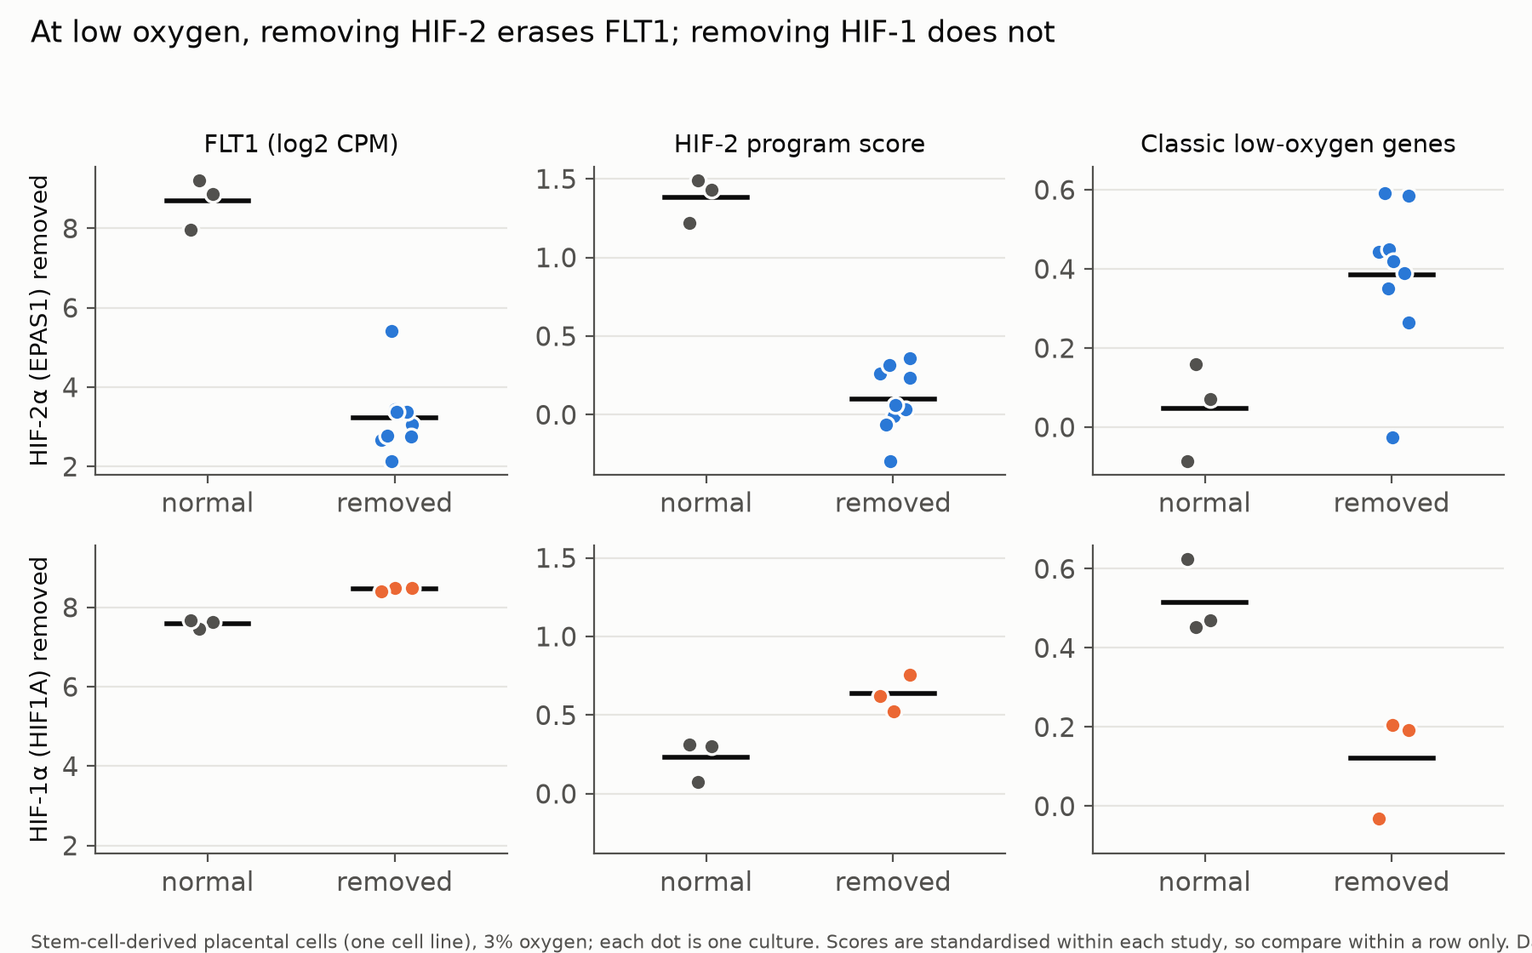
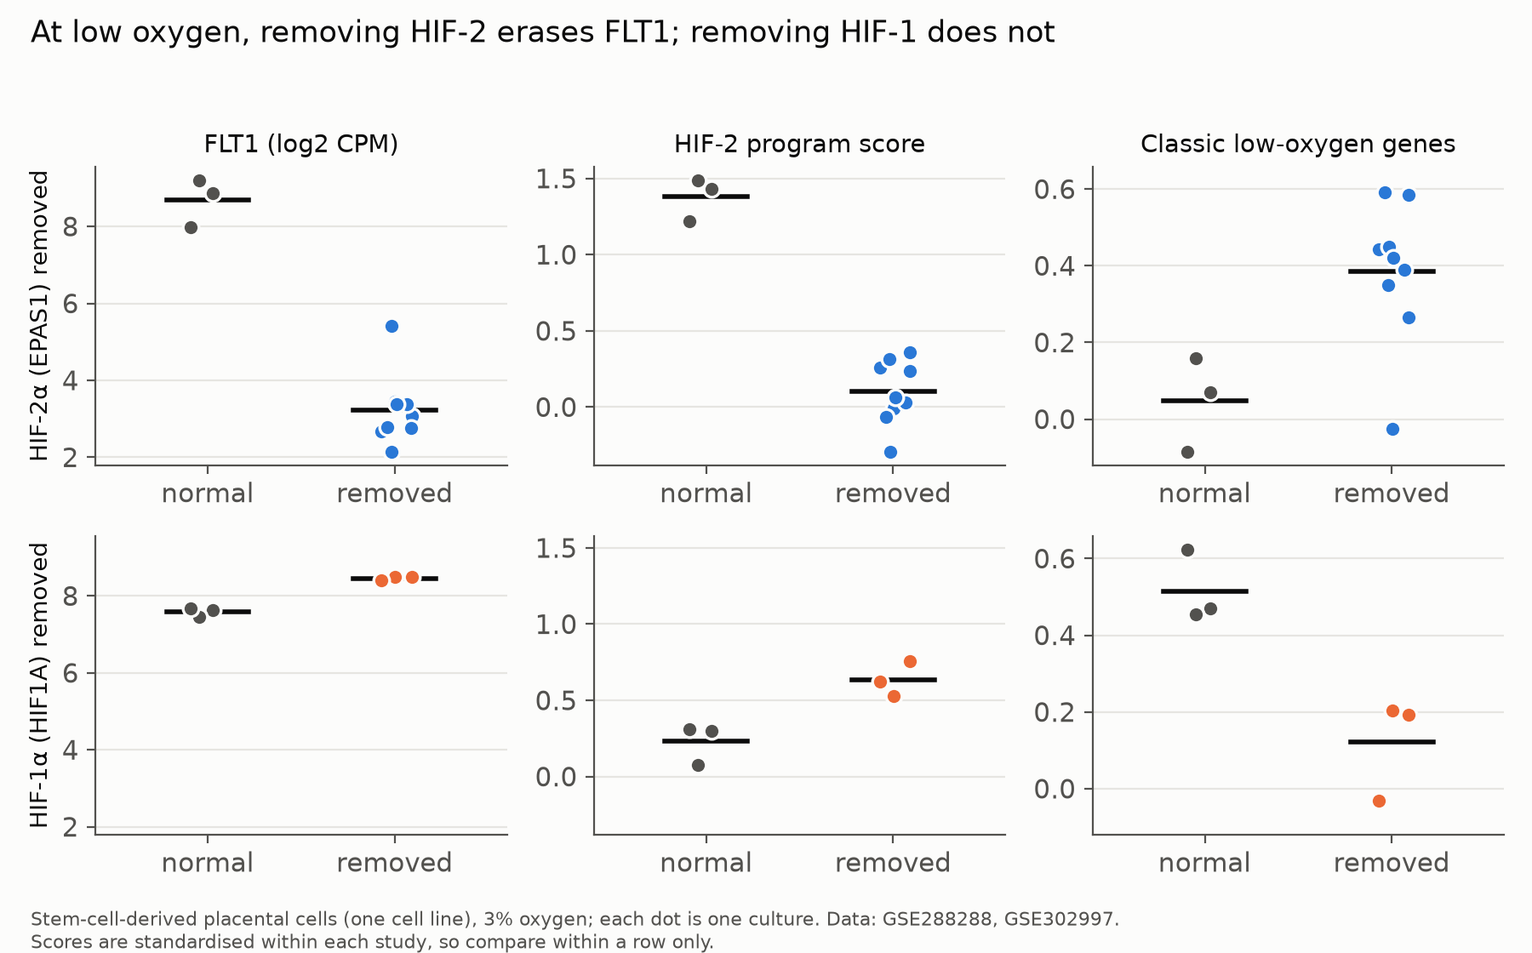
Second review: six testable questions defined in the intro and matched by fig20 (FLT1 RNA, not sFlt-1 protein); generic hypoxia score vs HIF-2 program kept separate in the conclusions; negatives phrased as 'no association found'; card no longer claims PE-specificity 'refuted' (no difference is not e

diff --git a/artifacts/summary-figures/make_figures.py b/artifacts/summary-figures/make_figures.py
@@ -94,28 +94,28 @@ for i, panel in enumerate(["HIF-2α (EPAS1) removed", "HIF-1α (HIF1A) removed"]
         if j == 0: ax.set_ylabel(panel, fontsize=10, color=INK)
         ax.grid(axis="y", color=GRID, lw=0.8); ax.set_axisbelow(True)
 fig.suptitle("At low oxygen, removing HIF-2 erases FLT1; removing HIF-1 does not", x=0.02, ha="left", fontsize=12.5, color=INK)
-fig.text(0.02, 0.005, "Stem-cell-derived placental cells (one cell line), 3% oxygen; each dot is one culture. Scores are standardised within each study, so compare within a row only. Data: GSE288288, GSE302997.", fontsize=8, color=MUTED)
-fig.tight_layout(rect=(0, 0.03, 1, 0.95)); fig.savefig(FIG / "fig19_hif2_vs_hif1.png", dpi=200); plt.close(fig)
+fig.text(0.02, 0.005, "Stem-cell-derived placental cells (one cell line), 3% oxygen; each dot is one culture. Data: GSE288288, GSE302997.\nScores are standardised within each study, so compare within a row only.", fontsize=8, color=MUTED)
+fig.tight_layout(rect=(0, 0.05, 1, 0.95)); fig.savefig(FIG / "fig19_hif2_vs_hif1.png", dpi=200); plt.close(fig)
 
 # ---- fig20: the chain, link by link
-links = [("1", "Poor maternal blood supply → low-oxygen program", "Not supported (2 pathology cohorts, Doppler)", "no"),
-         ("2", "Program higher in early preeclampsia", "Supported, fragile (5 of 6 matched cohorts)", "part"),
-         ("3", "HIF → program", "Supported in cells: drug, knockdown, DNA binding, knockout", "yes"),
-         ("4", "HIF-2 (not HIF-1) → FLT1", "Supported in stem-cell model; confirms Sasagawa 2018", "yes"),
-         ("5", "Program ↔ FLT1 in placentas", "Supported: 10/10 cohorts, within cells, intact tissue", "yes"),
-         ("6", "Placental FLT1 → mother's disease", "Not supported in our data; literature only", "no")]
-fig, ax = plt.subplots(figsize=(11, 4.6)); ax.axis("off")
+links = [("1", "Alarm higher with pathology signs of poor blood supply?", "No association found (2 pathology cohorts; Doppler)", "no"),
+         ("2", "Alarm higher in early preeclampsia vs same-stage births?", "Yes, but fragile (5 of 6 matched cohorts)", "part"),
+         ("3", "Does HIF drive the program genes in placental cells?", "Yes: drug, knockdown, ARNT binding, knockout", "yes"),
+         ("4", "Is it HIF-2 (not HIF-1) that FLT1 needs?", "Yes, in a stem-cell model (one line); confirms Sasagawa 2018", "yes"),
+         ("5", "Do the alarm and FLT1 rise together in placentas?", "Yes: 10/10 cohorts; within cells and intact tissue", "yes"),
+         ("6", "Does placental FLT1 RNA track the mother's illness?", "No clear association in our data", "no")]
+fig, ax = plt.subplots(figsize=(9.5, 6.6)); ax.axis("off")
 mark = {"yes": ("✔", BLUE), "part": ("~", "#eda100"), "no": ("✘", ORANGE)}
 for i, (k, link, ev, st) in enumerate(links):
-    y = 1 - i * 0.165
+    y = 0.95 - i * 0.15
     sym, col = mark[st]
-    ax.text(0.0, y, k, fontsize=13, color=MUTED, va="center", fontweight="bold")
-    ax.text(0.04, y, link, fontsize=11, color=INK, va="center")
-    ax.text(0.47, y, sym, fontsize=15, color=col, va="center", fontweight="bold")
-    ax.text(0.50, y, ev, fontsize=10, color=INK, va="center")
-ax.set_ylim(0.0, 1.08)
-ax.set_title("What held up, link by link", loc="left", fontsize=12.5, color=INK)
-ax.text(0.0, -0.02, "✔ supported   ~ supported but fragile   ✘ not supported.  Links 3–5 are tested in different systems (cells, stem-cell model, tissue).",
+    ax.text(0.0, y, k, fontsize=13, color=MUTED, va="center", fontweight="bold", transform=ax.transAxes)
+    ax.text(0.05, y, link, fontsize=11.5, color=INK, va="center", transform=ax.transAxes)
+    ax.text(0.05, y - 0.055, sym, fontsize=14, color=col, va="center", fontweight="bold", transform=ax.transAxes)
+    ax.text(0.09, y - 0.055, ev, fontsize=10, color=INK, va="center", transform=ax.transAxes)
+ax.set_title("Six questions we tested", loc="left", fontsize=12.5, color=INK)
+ax.text(0.0, -0.02, "✔ supported   ~ supported but fragile   ✘ not supported (no association found, not proof of none)\n"
+        "Questions 3–4: cell experiments; 5: patient tissue; 1, 2, 6: patient groups. FLT1 is measured as RNA, not sFlt-1 protein.",
         fontsize=8.5, color=MUTED, transform=ax.transAxes)
 fig.tight_layout(); fig.savefig(FIG / "fig20_chain_evidence.png", dpi=200); plt.close(fig)
 print("ok")

diff --git a/docs/hypothesis-card.md b/docs/hypothesis-card.md
@@ -47,7 +47,8 @@ The full, numbered list of all 29 results, with every number, is in
 5. **Within one placenta (GSE319236):**
    - single trophoblast cells: 19/20 donors pre-registered; 17/19 after a post hoc purity filter;
    - intact Visium tissue, composition-adjusted: 18/19.
-   - Neither cell mix nor dissociation explains the link.
+   - This makes cell mix and dissociation stress unlikely as the whole explanation. These results use the
+     generic hypoxia score; the HIF2dep-program versions (R2, S2, U) are descriptive.
 6. **Mechanism in culture:**
    - the program falls with PT2385 and with ARNT shRNA;
    - ARNT binds 24% of program genes vs 7% expected, but not FLT1;
@@ -87,15 +88,15 @@ evidence. "Causal" below means a perturbation experiment in culture, run by othe
 | 3 | HIF activity → the HIF2dep program | **Causal in culture, twice and in agreement:** PT2385 lowers it (L1, 3 donors) and ARNT shRNA lowers it (O1, 5/5 donors, p = 0.031, beyond all random sets). ARNT also partners HIF-1α and AhR, and both treatments shift differentiation. **ARNT binds near 24% of program genes vs 7% expected (Addendum T, ChIP-seq), so part of the program is direct** | causal in culture + direct binding; isoform not resolved |
 | 4 | **HIF-2 (rather than HIF-1) → FLT1** | **Now supported in a trophoblast model (Addendum V):** EPAS1-null syncytium loses FLT1 (−5.46 log2) and the program, while HIF1A-null does not (genetic double dissociation, 3% O2). Earlier evidence was **conflicting**: PT2385 lowers FLT1 (L1, log2FC −1.93), but ARNT shRNA did **not** lower FLT1 consistently (O1: 2 up, 2 down, 1 flat), and hypoxia itself lowers FLT1 in those first-trimester cells. Addendum Q found **no HIF isoform preference** for the program in hypoxic human T cells (57th percentile of random sets), though FLT1 itself was HIF-2-preferring there (descriptive). Prior literature supports HIF-2α (Sasagawa et al. 2018). **Addendum T: in trophoblast at 1% O2, ARNT does not bind near FLT1 (nearest peak 123 kb), although it binds a quarter of the program, so FLT1 may be an indirect target there** | **HIF-2-dependent in iPSC syncytium (genetic); possibly indirect; not yet shown in term STB** |
 | 5 | Hypoxia ↔ FLT1 in placental tissue | **Our strongest result.** Positive in 10/10 bulk cohorts, pre-registered in 9; pooled estimates 0.47–0.69. The HIF2dep–FLT1 partial link replicated in four untouched cohorts (L-C4 0.39; P1 0.40) | association, strongly replicated |
-| 5a | …within one cell type, rather than cell mix? | **Supported within donor at cell level, in one independent scRNA-seq cohort (Addendum R, GSE319236).** In marker-pure trophoblast barcodes (KRT7+, negative for 5 lineage markers): ρ 0.099, 17/19 donors, sign-flip p = 6×10⁻⁴, above all 1,000 random sets. Contamination inflated the first estimate (0.137 in marker-selected barcodes) but did not create it. **Dissociation stress ruled out:** in intact, never-dissociated tissue of the same donors (Addendum S, Visium), the link holds after adjusting for spot composition (ρ 0.118, 18/19, 99.9th percentile of random sets). One cohort, two designs. At pseudobulk level (O2) the link was 0.26 [−0.14, 0.59], not significant. Marker and deconvolution adjustments left the bulk estimate unchanged (L5, L6; P1-cs 0.63) | association, supported in one cohort |
+| 5a | …within one cell type, rather than cell mix? | **Supported within donor at cell level, in one independent scRNA-seq cohort (Addendum R, GSE319236).** In marker-pure trophoblast barcodes (KRT7+, negative for 5 lineage markers): ρ 0.099, 17/19 donors, sign-flip p = 6×10⁻⁴, above all 1,000 random sets. Contamination inflated the first estimate (0.137 in marker-selected barcodes) but did not create it. **Dissociation stress made unlikely as the whole explanation (not excluded):** in intact, never-dissociated tissue of the same donors (Addendum S, Visium), the link holds after adjusting for spot composition (ρ 0.118, 18/19, 99.9th percentile of random sets). One cohort, two designs. At pseudobulk level (O2) the link was 0.26 [−0.14, 0.59], not significant. Marker and deconvolution adjustments left the bulk estimate unchanged (L5, L6; P1-cs 0.63) | association, supported in one cohort |
 | 6 | sFlt-1 → maternal endothelial disease | Causal step: literature only (Maynard et al. 2003). **Placental end tested (Addendum Y): not supported.** FLT1 does not clearly track BP, proteinuria or HELLP within PE, nor separate PE from hypertension alone (p = 0.093); it is already up with hypertension alone | literature; placental-end association **not supported** |
 
 **Where the chain breaks.** Links 1 and 6 are borrowed from the literature. Link 4 is contradicted by our own
 data in one system. So we have a well-replicated **association** (link 5) that also holds
 inside single cells of one purified cell type and in intact tissue (link 5a), and a **culture-level causal step** (link 3) — but
 these are not joined into a causal chain in human placental tissue, because the step that would join them
-(link 4) is the one that failed. Addenda T and U narrow the gap. HIF binds a quarter of the program directly in
-trophoblast, but not FLT1. In intact placenta those direct targets travel with FLT1 within each donor. That fits
+(link 4) is the one that failed. Addenda T and U narrow the gap. ARNT (the HIF-β subunit shared by HIF-1 and HIF-2) binds near a quarter of the program genes in
+trophoblast, but not near FLT1. In intact placenta those direct targets travel with FLT1 within each donor. That fits
 FLT1 being an **indirect** target of the HIF program in trophoblast. It is an association, and it does not tell
 direct-target and differentiation routes apart. **Addendum V closes most of link 4 in a trophoblast model:** genetic
 loss of HIF-2α, but not HIF-1α, removes FLT1 and the program in hypoxic iPSC syncytium. The chain is now supported
@@ -127,7 +128,7 @@ tested in a single system in term placenta.
 | Growth restriction rather than PE | Discovery: direct PE − FGR-only contrast positive, FGR-only ≈ preterm controls. Replication: same direction but not significant, and IUGR-only modestly elevated. **Partly supported alternative**: the program is shared with FGR to some degree. |
 | Labour in controls (replication) | GSE114691 controls are spontaneous preterm labour, which can itself induce hypoxia genes; this would bias toward the null. Per-sample delivery mode is not public, so we could not adjust. |
 | Gene-set artifact | Beats 1,000 expression-matched random sets. |
-| Dissociation stress (single-cell data) | Addendum S: the within-donor link also holds in never-dissociated tissue (Visium), after adjusting for spot composition. Ruled out as the explanation. |
+| Dissociation stress (single-cell data) | Addendum S: the within-donor link also holds in never-dissociated tissue (Visium), after adjusting for spot composition. Made unlikely as the whole explanation, though not excluded. |
 | Signal is maternal/systemic, not trophoblast-specific | Decidua shows a similar effect; decidua basalis contains invading extravillous trophoblast, so this does not separate the two. |
 | Single influential donors | Leave-one-out in bulk and pseudobulk; direction stable. |
 
@@ -136,7 +137,7 @@ tested in a single system in term placenta.
 1. **Further cohorts (computational):** we already did this for GSE114691 (above). Done since: GSE75010 (Addendum K), three untouched cohorts (L), three GA-matched cohorts (M) and GSE186257 (P). GSE148241 was screened and not usable (no preterm controls). Still open: a cohort, with labour included as a covariate, and a pooled PE − FGR estimate across cohorts to decide whether the PE-specific part is real but small or absent.
 2. **Tissue validation:** in the same placentas, immunostain HIF-1α/HIF-2α and FLT1 in syncytiotrophoblast, and measure maternal serum sFlt-1:PlGF; prediction: "hypoxia-high" placentas have higher nuclear HIF in syncytium and higher maternal sFlt-1.
 3. **Causal test in vitro** (partly done: Addendum V used EPAS1- and HIF1A-null iPSC syncytium at 3% O2; still needed in primary term trophoblast, with sFlt-1 protein measured): primary trophoblast or trophoblast stem-cell-derived syncytium cultured at 1–2% vs 8% O2, ± HIF knockdown; prediction: hypoxia raises the hypoxia-only and shared genes and FLT1, and HIF knockdown abolishes both, while glycolysis-only genes change little.
-4. **Falsification** (the "equally high in FGR-only" condition has in effect been met, so the PE-specific part of the original hypothesis is refuted; the remaining conditions still apply): the hypothesis is wrong if, in an independent cohort with preterm controls, the hypoxia-only score is not higher in EOPE, or is equally high in FGR-only, or does not track FLT1.
+4. **Falsification.** PE vs FGR-only showed no difference in any replication cohort. No difference is not the same as equality, so the PE-specific part is **not supported**, rather than refuted. The remaining conditions still apply: the hypothesis is wrong if, in an independent cohort with preterm controls, the hypoxia-only score is not higher in EOPE, or is equally high in FGR-only, or does not track FLT1.
 
 ## Potential Intervention Relevance
 

diff --git a/docs/article.md b/docs/article.md
@@ -30,6 +30,16 @@ The textbook story is a chain of six links:
    ([Zeisler et al. 2016](https://doi.org/10.1056/NEJMoa1414838)).
 6. sFlt-1 damages the mother's blood vessels.
 
+Gene-activity data cannot test every link as written. They measure FLT1 RNA, not released sFlt-1 protein, and
+they cannot show harm to the mother. We therefore turned the chain into **six testable questions** (Figure 6):
+
+1. Is the alarm higher where pathology shows poor blood supply?
+2. Is the alarm higher in early preeclampsia than in births at the same stage?
+3. Does HIF drive the alarm genes in placental cells?
+4. Is it HIF-2 (rather than HIF-1) that FLT1 needs?
+5. Do the alarm and FLT1 rise together in placentas?
+6. Does placental FLT1 track how sick the mother is?
+
 A 2023 study of our main placentas described a "sugar-burning" (glycolytic) pattern in some early-preeclampsia
 placentas ([Ackerman et al. 2023](https://doi.org/10.1161/HYPERTENSIONAHA.122.20807)). We set out to test that
 signal, and then each link of the chain, with public data.
@@ -121,10 +131,10 @@ HIF-2 in placental cells. In three patient groups we had never opened, those gen
 general alarm (0.39, interval 0.19 to 0.57), more than all 1,000 random gene lists. A fourth group repeated it
 (0.40).
 
-### It is not just a mix of cell types, and not an artefact of handling
+### Probably not just a mix of cell types, nor an artefact of handling
 
 A piece of placenta mixes many cell types. So two placentas could differ simply because one has more of the
-cells that make both the alarm genes and FLT1. To rule this out, we compared within each of 20 placentas from a
+cells that make both the alarm genes and FLT1. To test this, we compared within each of 20 placentas from a
 new study ([GSE319236](https://www.ncbi.nlm.nih.gov/geo/query/acc.cgi?acc=GSE319236)), using two designs. Its
 authors had already reported hypoxia signals in preeclampsia; what we add is the within-placenta test.
 
@@ -167,7 +177,8 @@ Each dot is one culture, and the black lines are averages. Data: GSE288288, GSE3
 
 ### What did not hold up
 
-- **Poor blood supply did not switch on the general alarm.** In 168 placentas examined by pathologists,
+- **We found no association between poor blood supply and the general alarm** after adjusting for disease type,
+  stage and other factors. This is not proof that there is none. In 168 placentas examined by pathologists,
   49 with signs of poor maternal blood supply ([GSE303463](https://www.ncbi.nlm.nih.gov/geo/query/acc.cgi?acc=GSE303463)), and in
   extremely premature placentas with infarcts (dead patches from poor blood supply;
   [GSE154829](https://www.ncbi.nlm.nih.gov/geo/query/acc.cgi?acc=GSE154829)), the general alarm was not higher.
@@ -179,9 +190,14 @@ Each dot is one culture, and the black lines are averages. Data: GSE288288, GSE3
   pressure **without** preeclampsia.
 - **Preeclampsia did not separate from growth restriction** beyond our main dataset (see above).
 
-![Six-row summary: links 3, 4 and 5 supported, link 2 supported but fragile, links 1 and 6 not supported.](../figures/fig20_chain_evidence.png)
+![Six questions with verdicts: questions 3, 4 and 5 supported, question 2 supported but fragile, questions 1 and 6 no association found.](../figures/fig20_chain_evidence.png)
 
-Figure 6. The six links of the textbook chain and what our tests showed for each.
+Figure 6. The six questions we tested (see Introduction) and what we found.
+
+- Questions 3 and 4 come from cell experiments.
+- Question 5 comes from patient tissue.
+- The rest come from patient groups.
+- FLT1 was measured as RNA; released sFlt-1 protein was not measured.
 
 ## Unanswered Questions
 
@@ -195,14 +211,18 @@ Figure 6. The six links of the textbook chain and what our tests showed for each
 
 **What held up.** The middle of the chain is strong:
 
-- In placental cells, HIF-2 is needed for a program of genes and for FLT1, and a HIF protein binds many of the program genes.
-- In patients' placentas, that program rises and falls with FLT1 in every group we examined, inside single cells
-  and in intact tissue.
+- **In placental cells:** HIF-2 is needed for FLT1 and for a drug-defined HIF-2 gene program, and a HIF protein
+  binds many of that program's genes.
+- **In patients' placentas:** the general low-oxygen alarm rises and falls with FLT1 in every group we examined,
+  and within single cells and intact tissue of the same placentas.
+  - The HIF-2 program itself tracked FLT1 beyond the general alarm in four patient groups.
+  - Its within-placenta checks were descriptive only.
+  - These are two related but separate findings.
 
 **What did not.** We could not show the two ends of the chain in our data:
 
-- that poor blood supply switches on the alarm;
-- that placental FLT1 reflects how sick the mother is.
+- an association between pathology signs of poor blood supply and the alarm;
+- that placental FLT1 RNA reflects how sick the mother is.
 
 We also found nothing specific to preeclampsia rather than growth restriction. These are honest negatives, not
 failures to look. The two ends rest on earlier animal and clinical studies
@@ -211,7 +231,8 @@ failures to look. The two ends rest on earlier animal and clinical studies
 **What is new.** The low-oxygen → HIF-2 → FLT1 biology was known. Our contributions are:
 
 - a planned, ten-group replication of the alarm–FLT1 link, with its weak points reported;
-- showing that this link holds within single cells and intact tissue of the same placentas;
+- showing that the alarm–FLT1 link holds within single cells and intact tissue of the same placentas, which
+  makes cell mix and handling stress unlikely as the whole explanation;
 - linking a drug-defined HIF-2 program to FLT1 in patients, with genetic evidence that HIF-2 (not HIF-1) is
   needed for both;
 - clear negatives for the first and last links.

diff --git a/README.md b/README.md
@@ -26,7 +26,7 @@ malperfusion → placental hypoxia program → HIF → FLT1 (sFlt-1) → materna
 Rows from Addendum C onward were pre-registered, with the plan committed before the data were opened. Rows from
 the main dataset (notebooks 01–03) were partly planned after the first results. Post hoc steps are marked.
 
-| Link | Result | Where |
+| Question | Result | Where |
 |---|---|---|
 | "Glycolytic" signal = hypoxia program (post hoc split) | Hypoxia-only genes up in EOPE vs preterm controls; glycolysis-only genes not; beats 1,000 random sets | notebooks 01–03 |
 | EOPE > GA-matched preterm controls | 5 of 6 cohorts; **fragile** in the pooled small cohorts (Addendum M) | 05, K, M |
@@ -75,6 +75,7 @@ jupyter nbconvert --to notebook --execute --inplace 09_hypoxia_independent_flt1_
 jupyter nbconvert --to notebook --execute --inplace 10_villous_to_decidua.ipynb
 jupyter nbconvert --to notebook --execute --inplace 11_anchor_gene_null.ipynb
 jupyter nbconvert --to notebook --execute --inplace 12_selection_null_and_differentiation.ipynb
+cd ..   # back to the repository root; all commands below run from here
 ```
 
 The first notebook clones the official datathon data package at a **pinned commit** (`fb751e9`) next to this repository and downloads the Hallmark gene sets, so no data files need to be copied by hand. Run the notebooks in order: later notebooks read result files written by earlier ones. Notebook 05 also downloads GSE114691 counts from GEO and a transcript-to-gene table from Ensembl GRCh37 BioMart.
@@ -95,8 +96,7 @@ python artifacts/addendum-l/l6_deconvolution_posthoc.py external_cohorts
 **Addenda M–Q.**
 
 - M, N and O1 use files from `fetch_external_cohorts.sh`.
-- P and Q need one GEO supplementary file each: GSE186257 normalised counts, and GSE324038 RSEM counts. The
-  URLs are in each `plan.md`.
+- P and Q need GEO files, which the `curl` lines below download.
 - O2 uses the datathon pseudobulk.
 
 ```bash
@@ -105,8 +105,12 @@ python artifacts/addendum-m/m4_flt1_pgf_posthoc.py external_cohorts
 python artifacts/addendum-n/n_explore.py external_cohorts/GSE75010_series_matrix.txt external_cohorts/GPL6244.txt
 python artifacts/addendum-o/o1_arnt.py external_cohorts/GSE80995_series_matrix.txt.gz external_cohorts/GPL10558.txt
 python artifacts/addendum-o2/o2_within_celltype.py
-python artifacts/addendum-p/p_confirm.py GSE186257_series_matrix.txt.gz GSE186257_Plac_samples_DESEq2_norm_filtered.txt.gz
-python artifacts/addendum-q/q_hif1_vs_hif2.py GSE324038_Project_Knm32.rsem_genes_expected_count.txt.gz
+mkdir -p pq_data
+curl -fsSL -o pq_data/GSE186257_series_matrix.txt.gz https://ftp.ncbi.nlm.nih.gov/geo/series/GSE186nnn/GSE186257/matrix/GSE186257_series_matrix.txt.gz
+curl -fsSL -o pq_data/GSE186257_Plac_samples_DESEq2_norm_filtered.txt.gz https://ftp.ncbi.nlm.nih.gov/geo/series/GSE186nnn/GSE186257/suppl/GSE186257_Plac_samples_DESEq2_norm_filtered.txt.gz
+curl -fsSL -o pq_data/GSE324038_Project_Knm32.rsem_genes_expected_count.txt.gz https://ftp.ncbi.nlm.nih.gov/geo/series/GSE324nnn/GSE324038/suppl/GSE324038_Project_Knm32.rsem_genes_expected_count.txt.gz
+python artifacts/addendum-p/p_confirm.py pq_data/GSE186257_series_matrix.txt.gz pq_data/GSE186257_Plac_samples_DESEq2_norm_filtered.txt.gz
+python artifacts/addendum-q/q_hif1_vs_hif2.py pq_data/GSE324038_Project_Knm32.rsem_genes_expected_count.txt.gz
 ```
 
 **Addenda R–Y (single-cell, spatial, ChIP, knockouts, pathology, maternal disease).** Each script has a
@@ -190,7 +194,7 @@ Reproducibility details:
     endothelium, stroma, immune, erythrocyte markers) and technical covariates.
   - ρ 0.118, 18/19 donors, sign-flip p ≤ 1×10⁻⁴, 99.9th percentile of 1,000 random sets.
   - All 3 sensitivities pass, including the STB-rich half of spots (0.078).
-  - **This rules out dissociation stress as the explanation for Addendum R.**
+  - This makes dissociation stress unlikely as the whole explanation for Addendum R (it does not exclude it).
   - Limits: spots mix several cells, so composition is adjusted for, not removed; same donors as R.
   - Details: `artifacts/addendum-s/results.md`.
 - **Direct HIF binding (Addendum T, pre-registered, GSE209936 ARNT ChIP-seq, BeWo at 1% O2):**

diff --git a/docs/presentation-outline.md b/docs/presentation-outline.md
@@ -68,9 +68,9 @@ figure. Times are cumulative. Rehearse once with a timer.
 
 **Slide 8: what did not hold (fig20)**
 
-> Now the honest part. Poor blood supply, judged by a pathologist in two separate cohorts, did not switch on
-> the general alarm — although FLT1 itself was higher. Placental FLT1 did not track how sick the mother was.
-> And preeclampsia was higher than growth restriction only in my main dataset — never again in later groups.
+> Now the honest part. In two separate cohorts, I found no association between pathologist-recorded poor
+> blood supply and the general alarm, though FLT1 itself was higher. Placental FLT1 did not track how sick the
+> mother was. And preeclampsia was higher than growth restriction only in my main dataset, not in later groups.
 
 ## Discussion (3:45 to 5:00)
 
